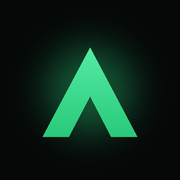
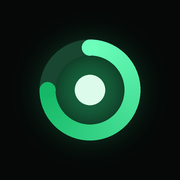
Kalo 2.1 : retour du nom Kalo, nouvelle icône, compléments du jour
Claude-Session: https://claude.ai/code/session_01X9tV76v65pVn9JuBxWGshT

Changed region(s): [[0.1944, 0.1944, 0.8056, 0.8056]]

diff --git a/app.js b/app.js
@@ -1,6 +1,6 @@
 'use strict';
 (() => {
-  const APP_VERSION = '2.0.0';
+  const APP_VERSION = '2.1.0';
 
   /* ---------- Utilitaires ---------- */
   const $ = (s, el = document) => el.querySelector(s);
@@ -40,6 +40,8 @@
     bolt: '<svg viewBox="0 0 24 24"><path d="M13 2L4 14h7l-1 8 9-12h-7l1-8z"/></svg>',
     plus: '<svg viewBox="0 0 24 24"><path d="M12 5v14M5 12h14"/></svg>',
     check: '<svg viewBox="0 0 24 24" class="ico-check"><circle cx="12" cy="12" r="10"/><path d="M7.5 12.5l3 3 6-6.5"/></svg>',
+    pill: '<svg viewBox="0 0 24 24"><g transform="rotate(-45 12 12)"><rect x="3" y="8.3" width="18" height="7.4" rx="3.7"/><path d="M12 8.3v7.4"/></g></svg>',
+    edit: '<svg viewBox="0 0 24 24"><path d="M4 20h4L19 9l-4-4L4 16v4zM13.5 6.5l4 4"/></svg>',
     gear: '<svg viewBox="0 0 24 24"><circle cx="12" cy="12" r="3.2"/><path d="M19.4 15a1.7 1.7 0 00.3 1.9l.1.1a2 2 0 11-2.8 2.8l-.1-.1a1.7 1.7 0 00-1.9-.3 1.7 1.7 0 00-1 1.5V21a2 2 0 11-4 0v-.1a1.7 1.7 0 00-1.1-1.5 1.7 1.7 0 00-1.9.3l-.1.1a2 2 0 11-2.8-2.8l.1-.1a1.7 1.7 0 00.3-1.9 1.7 1.7 0 00-1.5-1H3a2 2 0 110-4h.1a1.7 1.7 0 001.5-1.1 1.7 1.7 0 00-.3-1.9l-.1-.1a2 2 0 112.8-2.8l.1.1a1.7 1.7 0 001.9.3H9a1.7 1.7 0 001-1.5V3a2 2 0 114 0v.1a1.7 1.7 0 001 1.5 1.7 1.7 0 001.9-.3l.1-.1a2 2 0 112.8 2.8l-.1.1a1.7 1.7 0 00-.3 1.9V9a1.7 1.7 0 001.5 1H21a2 2 0 110 4h-.1a1.7 1.7 0 00-1.5 1z"/></svg>',
     flame: '<svg viewBox="0 0 24 24"><path fill="#2EE68A" d="M12 2c1 3.5-1.5 5-1.5 7.5 0 1.4 1 2.5 2.3 2.5 1.6 0 2.4-1.3 2.2-3 2.3 1.8 3.5 4.3 3.5 6.6C18.5 19.3 15.6 22 12 22s-6.5-2.7-6.5-6.4C5.5 10.5 11 8.5 12 2z"/></svg>',
     fork: '<svg viewBox="0 0 24 24" fill="none" stroke="#2EE68A" stroke-width="2" stroke-linecap="round"><path d="M6 3v7a2 2 0 002 2v9M10 3v7a2 2 0 01-2 2M8 3v6M17 21V3c-2 1.5-3 4-3 7v3h3"/></svg>',
@@ -52,7 +54,8 @@
     body: '<svg viewBox="0 0 48 48"><circle cx="24" cy="12" r="6"/><path d="M10 44c0-11 3-20 14-20s14 9 14 20M17 30c2 2 4.5 3 7 3s5-1 7-3M24 33v8M18 38h12"/></svg>',
   };
 
-  const brandHTML = () => `<div class="brand"><svg viewBox="0 0 40 40" aria-hidden="true"><defs><linearGradient id="lgA" x1="0" y1="0" x2="1" y2="1"><stop offset="0" stop-color="#6CFFBC"/><stop offset="1" stop-color="#14B866"/></linearGradient></defs><path d="M20 3.5 L37 35.5 H27.6 L20 21 L12.4 35.5 H3 Z" fill="url(#lgA)"/><path d="M20 26 L23.6 33 H16.4 Z" fill="#050807"/></svg><span>Automa<b>Fit</b></span></div>`;
+  const LOGO = '<svg viewBox="0 0 40 40" aria-hidden="true"><defs><linearGradient id="lgK" x1="0" y1="0" x2="1" y2="1"><stop offset="0" stop-color="#6CFFBC"/><stop offset="1" stop-color="#14B866"/></linearGradient></defs><circle cx="20" cy="20" r="14.5" fill="none" stroke="rgba(46,230,138,.22)" stroke-width="5.5"/><path d="M20 5.5 A14.5 14.5 0 1 1 5.5 20" fill="none" stroke="url(#lgK)" stroke-width="5.5" stroke-linecap="round"/><circle cx="20" cy="20" r="4.6" fill="#DCFBEA"/></svg>';
+  const brandHTML = () => `<div class="brand">${LOGO}<span>Ka<b>lo</b></span></div>`;
   const MEALS = [['breakfast', 'Petit-déjeuner'], ['lunch', 'Déjeuner'], ['dinner', 'Dîner'], ['snack', 'Collations']];
   const mealName = id => (MEALS.find(m => m[0] === id) || [, id])[1];
   const guessMeal = () => { const d = new Date(), h = d.getHours() + d.getMinutes() / 60; return h < 10.5 ? 'breakfast' : h < 15 ? 'lunch' : h < 18 ? 'snack' : 'dinner'; };
@@ -126,12 +129,12 @@
   };
 
   /* ---------- État ---------- */
-  const S = { profile: null, days: {}, weights: [], foods: [], recents: [], off: {}, photo: '' };
+  const S = { profile: null, days: {}, weights: [], foods: [], recents: [], off: {}, photo: '', supps: [] };
   const UI = { tab: 'journal', date: today(), period: 'week', metric: 'kcal', anchor: today(), proj: 'auto', mini: 30 };
 
   async function loadState() {
     const all = await Store.loadAll();
-    S.profile = all.profile || null; S.weights = all.weights || []; S.foods = all.foods || []; S.recents = all.recents || []; S.photo = all.photo || '';
+    S.profile = all.profile || null; S.weights = all.weights || []; S.foods = all.foods || []; S.recents = all.recents || []; S.photo = all.photo || ''; S.supps = all.supps || [];
     S.days = {}; S.off = {};
     for (const k in all) {
       if (k.startsWith('day:')) S.days[k.slice(4)] = all[k];
@@ -141,7 +144,7 @@
 
   function saveDay(k) {
     const d = S.days[k];
-    if (!d || (!d.entries.length && d.burn == null && d.active == null && !d.validated && !(d.mealsDone && Object.keys(d.mealsDone).length))) { delete S.days[k]; return Store.del('day:' + k); }
+    if (!d || (!d.entries.length && d.burn == null && d.active == null && !d.validated && !(d.mealsDone && Object.keys(d.mealsDone).length) && !(d.supps && Object.keys(d.supps).length))) { delete S.days[k]; return Store.del('day:' + k); }
     if (k === today() || !d.goal) { const g = goals(); d.goal = { kcal: g.kcal, protein: g.protein, carbs: g.carbs, tdee: g.tdee }; }
     return Store.put('day:' + k, d);
   }
@@ -442,6 +445,7 @@
         </div>
         <div class="today-sub num">${split ? `Mangé ${r0(t.eatenK)} · prévu ${r0(t.planK)} · ` : ''}consommé ${r0(t.kcal)} / ${r0(g.kcal)} kcal</div>
       </section>
+      ${suppsCard(k)}
       ${locked ? validatedCard(k, t, burn) : ''}
       <section class="card">
         <div class="row between"><div class="card-title">${ICON.cal}Bilan du jour</div>${locked ? '' : `<button class="watch-pill ${burn.measured ? 'on' : ''}" data-action="burn">${ICON.watch}Ma montre<i></i></button>`}</div>
@@ -464,6 +468,50 @@
         <div><div class="k num">${r0(g.kcal)} <small>kcal</small></div><div class="s">Objectif quotidien</div></div>
         <div class="chips2"><span>${p.sex === 'f' ? 'Femme' : 'Homme'}</span><span>${p.age} ans</span><span class="more">Voir plus ›</span></div>
       </section>`;
+  }
+
+  /* ---------- Compléments alimentaires du jour ---------- */
+  function suppsCard(k) {
+    const sl = S.supps, taken = S.days[k]?.supps || {};
+    const n = sl.filter(x => taken[x.id]).length, all = sl.length && n === sl.length;
+    return `<section class="card supps ${all ? 'all' : ''}">
+      <div class="row between"><div class="card-title">${ICON.pill}Compléments</div>
+        <div class="row" style="gap:4px">${sl.length ? `<span class="supp-count ${all ? 'good-text' : n ? '' : 'over-text'}">${all ? 'Tous pris ✓' : `${n} / ${sl.length} pris`}</span>` : ''}<button class="icon-btn" data-action="supps-manage" aria-label="Gérer mes compléments">${ICON.edit}</button></div></div>
+      ${sl.length ? `<div class="supp-row">${sl.map(x => `<button class="supp ${taken[x.id] ? 'on' : ''}" data-action="supp-toggle" data-id="${x.id}" aria-pressed="${!!taken[x.id]}"><span class="dot">${ICON.check}</span><span class="txt"><b>${esc(x.name)}</b>${x.dose ? `<small>${esc(x.dose)}</small>` : ''}</span></button>`).join('')}</div>`
+        : '<button class="btn ghost block small" style="margin-top:12px" data-action="supps-manage">+ Ajouter mes compléments (créatine, magnésium…)</button>'}
+    </section>`;
+  }
+  const SUPP_SUGGEST = [['Créatine', '5 g'], ['Magnésium', '300 mg'], ['Oméga 3', '2 gélules'], ['Vitamine D3 + K2', '1 gélule'], ['Zinc', '15 mg'], ['Multivitamines', '1 comprimé'], ['Whey', '30 g'], ['Vitamine C', '500 mg'], ['Fer', '1 comprimé'], ['Collagène', '10 g']];
+  function openSupps() {
+    const sh = makeSheet('Mes compléments');
+    const draw = () => {
+      const has = n => S.supps.some(x => norm(x.name) === norm(n));
+      sh.setBody(`
+        <section class="card list">${S.supps.length ? S.supps.map((x, i) => `<div class="item"><div class="grow"><div class="name">${esc(x.name)}</div>${x.dose ? `<div class="sub">${esc(x.dose)}</div>` : ''}</div>
+          <button class="icon-btn" data-a="up" data-i="${i}" aria-label="Monter" ${i ? '' : 'disabled style="opacity:.25"'}>${ICON.left.replace('M15 5l-7 7 7 7', 'M6 15l6-6 6 6')}</button>
+          <button class="icon-btn" data-a="del" data-i="${i}" aria-label="Supprimer" style="color:var(--danger)">${ICON.close}</button></div>`).join('') : '<div class="empty small">Aucun complément pour l\'instant.</div>'}</section>
+        <h3>Suggestions</h3>
+        <div class="chips" style="margin:0 0 16px">${SUPP_SUGGEST.filter(([n]) => !has(n)).map(([n, d]) => `<button class="chip" data-a="sug" data-n="${esc(n)}" data-d="${esc(d)}">+ ${esc(n)}</button>`).join('')}</div>
+        <h3>Ajouter un autre complément</h3>
+        <section class="card stack"><div class="grid2"><label class="field"><span>Nom</span><input type="text" data-f="n" placeholder="ex. Ashwagandha"></label><label class="field"><span>Dose (facultatif)</span><input type="text" data-f="d" placeholder="ex. 1 gélule"></label></div>
+          <button class="btn block" data-a="add">Ajouter</button></section>
+        <p class="note">La liste est la même chaque jour ; les cases se décochent automatiquement à minuit. Les compléments ne remplacent pas une alimentation variée : demande conseil à un médecin ou un pharmacien en cas de traitement.</p>`);
+    };
+    const save = () => { Store.put('supps', S.supps); render(); };
+    sh.body.addEventListener('click', e => {
+      const b = e.target.closest('[data-a]'); if (!b) return;
+      const a = b.dataset.a, i = +b.dataset.i;
+      if (a === 'del') S.supps.splice(i, 1);
+      if (a === 'up' && i > 0) [S.supps[i - 1], S.supps[i]] = [S.supps[i], S.supps[i - 1]];
+      if (a === 'sug') S.supps.push({ id: uid(), name: b.dataset.n, dose: b.dataset.d });
+      if (a === 'add') {
+        const n = $('[data-f="n"]', sh.body).value.trim(), d = $('[data-f="d"]', sh.body).value.trim();
+        if (!n) { toast('Indique un nom'); return; }
+        S.supps.push({ id: uid(), name: n, dose: d });
+      }
+      save(); draw();
+    });
+    draw(); openSheet(sh.el);
   }
 
   function drawMini() {
@@ -523,13 +571,13 @@
       sh.setBody(mode === 'active' ? `<section class="card stack">
         <label class="field"><span>Calories brûlées aujourd'hui (kcal)</span><input type="number" inputmode="numeric" data-f="v" value="${d.active ?? ''}" placeholder="ex. 559"></label>
         <div class="burn-calc num" data-f="calc"></div>
-        <p class="note" style="margin:0">Entre le chiffre <b>« calories actives »</b> (ou « énergie active ») de ta montre. AutomaFit y ajoute ta dépense au repos estimée (${r0(bmr)} kcal) pour obtenir ta dépense totale du jour.</p>
+        <p class="note" style="margin:0">Entre le chiffre <b>« calories actives »</b> (ou « énergie active ») de ta montre. Kalo y ajoute ta dépense au repos estimée (${r0(bmr)} kcal) pour obtenir ta dépense totale du jour.</p>
       </section>
       <button class="btn plain block" data-a="mode">Entrer plutôt le TOTAL de ma montre (recommandé)</button>`
         : `<section class="card stack">
         <label class="field"><span>TOTAL de la journée (kcal)</span><input type="number" inputmode="numeric" data-f="v" value="${d.burn ?? ''}" placeholder="ex. 2 416"></label>
         <div class="burn-calc num" data-f="calc"></div>
-        <p class="note" style="margin:0"><b>Apple Watch</b> : app <b>Forme</b> → Résumé → touche l'anneau rouge → ligne <b>« TOTAL : … KCAL »</b> sous le graphique « Bouger ».${k === today() ? ' AutomaFit ajoute automatiquement ce que tu brûleras au repos jusqu\'à minuit.' : ''}</p>
+        <p class="note" style="margin:0"><b>Apple Watch</b> : app <b>Forme</b> → Résumé → touche l'anneau rouge → ligne <b>« TOTAL : … KCAL »</b> sous le graphique « Bouger ».${k === today() ? ' Kalo ajoute automatiquement ce que tu brûleras au repos jusqu\'à minuit.' : ''}</p>
       </section>
       <button class="btn plain block" data-a="mode">Je n'ai que les calories « Bouger » (actives)</button>`);
       const inp = $('[data-f="v"]', sh.body), out = $('[data-f="calc"]', sh.body);
@@ -538,7 +586,7 @@
         if (v == null) { out.innerHTML = `Sans saisie : estimation ${r0(g.tdee)} kcal`; return; }
         if (mode === 'active') { out.innerHTML = `Dépense du jour : ${r0(bmr)} + ${r0(v)} = <b>${r0(bmr + v)} kcal</b>`; return; }
         const rl = restLeft();
-        if (v < 1200) { out.innerHTML = `${r0(v)} ressemble à tes calories « Bouger » : AutomaFit ajoute ta dépense au repos → <b>${r0(bmr + v)} kcal</b>`; return; }
+        if (v < 1200) { out.innerHTML = `${r0(v)} ressemble à tes calories « Bouger » : Kalo ajoute ta dépense au repos → <b>${r0(bmr + v)} kcal</b>`; return; }
         out.innerHTML = rl ? `${r0(v)} + ~${r0(rl)} au repos d'ici minuit = <b>${r0(v + rl)} kcal</b>` : `Dépense du jour : <b>${r0(v)} kcal</b>`;
       };
       inp.addEventListener('input', upd); upd();
@@ -635,7 +683,7 @@
     const p = S.profile, g = goals(), c = g, w = currentWeight();
     const install = isStandalone() ? '' : `<section class="card"><h3>Installer l'application</h3>${isIOS()
       ? '<p class="small">Dans <b>Safari</b> : touche <b>« ⋯ »</b> à côté de la barre d\'adresse, puis <b>Partager</b> (carré avec une flèche), fais défiler et choisis <b>« Sur l\'écran d\'accueil »</b>. Sur les anciens iOS, le bouton Partager est directement en bas de l\'écran.</p>'
-      : installPrompt ? '<button class="btn block" data-action="install">Installer AutomaFit</button>' : '<p class="small">Dans <b>Chrome</b> : menu <b>⋮</b> puis <b>« Ajouter à l\'écran d\'accueil »</b> ou <b>« Installer l\'application »</b>.</p>'}</section>`;
+      : installPrompt ? '<button class="btn block" data-action="install">Installer Kalo</button>' : '<p class="small">Dans <b>Chrome</b> : menu <b>⋮</b> puis <b>« Ajouter à l\'écran d\'accueil »</b> ou <b>« Installer l\'application »</b>.</p>'}</section>`;
     const hM = `${Math.floor(p.height / 100)}m${String(Math.round(p.height % 100)).padStart(2, '0')}`;
     const imc = w / (p.height / 100) ** 2;
     const prompt = aiPrompt();
@@ -681,7 +729,7 @@
         <div class="grid2"><button class="btn outline" data-action="export">Exporter</button><label class="btn outline" style="position:relative">Importer<input type="file" accept="application/json,.json" data-input="import" style="position:absolute;inset:0;opacity:0"></label></div>
         <button class="btn danger block" data-action="reset">Effacer toutes les données</button>
       </section>
-      <p class="note">AutomaFit ${APP_VERSION} · stockage ${Store.mode === 'idb' ? 'IndexedDB' : 'local'} · données produits <a href="https://world.openfoodfacts.org" target="_blank" rel="noopener">Open Food Facts</a>. Les valeurs sont des estimations, pas un avis médical.</p>`;
+      <p class="note">Kalo ${APP_VERSION} · stockage ${Store.mode === 'idb' ? 'IndexedDB' : 'local'} · données produits <a href="https://world.openfoodfacts.org" target="_blank" rel="noopener">Open Food Facts</a>. Les valeurs sont des estimations, pas un avis médical.</p>`;
   }
 
   /* ---------- Progrès ---------- */
@@ -1267,12 +1315,12 @@
 
   /* ---------- Export / import ---------- */
   async function exportData() {
-    const data = { app: 'kalo', version: 1, exportedAt: new Date().toISOString(), profile: S.profile, weights: S.weights, foods: S.foods, recents: S.recents, days: S.days, photo: S.photo || '' };
+    const data = { app: 'kalo', version: 1, exportedAt: new Date().toISOString(), profile: S.profile, weights: S.weights, foods: S.foods, recents: S.recents, days: S.days, photo: S.photo || '', supps: S.supps };
     const name = `kalo-sauvegarde-${today()}.json`;
     const blob = new Blob([JSON.stringify(data)], { type: 'application/json' });
     const file = new File([blob], name, { type: 'application/json' });
     if (navigator.canShare && navigator.canShare({ files: [file] })) {
-      try { await navigator.share({ files: [file], title: 'Sauvegarde AutomaFit' }); return; } catch (e) { if (e.name === 'AbortError') return; }
+      try { await navigator.share({ files: [file], title: 'Sauvegarde Kalo' }); return; } catch (e) { if (e.name === 'AbortError') return; }
     }
     const a = document.createElement('a'); a.href = URL.createObjectURL(blob); a.download = name; document.body.appendChild(a); a.click();
     setTimeout(() => { URL.revokeObjectURL(a.href); a.remove(); }, 1000);
@@ -1284,7 +1332,7 @@
       if (d.app !== 'kalo' || !d.profile) throw new Error('format');
       if (!confirm('Remplacer toutes les données actuelles par cette sauvegarde ?')) return;
       await Store.clear();
-      await Store.put('profile', d.profile); await Store.put('weights', d.weights || []); await Store.put('foods', d.foods || []); await Store.put('recents', d.recents || []); if (d.photo) await Store.put('photo', d.photo);
+      await Store.put('profile', d.profile); await Store.put('weights', d.weights || []); await Store.put('foods', d.foods || []); await Store.put('recents', d.recents || []); if (d.photo) await Store.put('photo', d.photo); if (d.supps) await Store.put('supps', d.supps);
       for (const k in d.days || {}) await Store.put('day:' + k, d.days[k]);
       await loadState(); render(); toast('Sauvegarde restaurée');
     } catch (e) { toast('Fichier de sauvegarde invalide'); }
@@ -1309,6 +1357,14 @@
     'photo-pick': () => $('#photoInput').click(),
     'photo-del': () => { if (!confirm('Retirer ta photo objectif ?')) return; S.photo = ''; Store.del('photo'); render(); },
     'copy-prompt': () => { navigator.clipboard?.writeText(aiPrompt()).then(() => toast('Texte copié ✓'), () => toast('Copie impossible : sélectionne le texte')); },
+    'supps-manage': () => openSupps(),
+    'supp-toggle': b => {
+      const d = getDay(UI.date); d.supps = d.supps || {};
+      const id = b.dataset.id;
+      if (d.supps[id]) delete d.supps[id]; else d.supps[id] = Date.now();
+      saveDay(UI.date); render();
+      if (d.supps[id]) { try { navigator.vibrate?.(15); } catch (e) { /* ignore */ } if (S.supps.every(x => d.supps[x.id])) toast('Tous tes compléments sont pris 💊'); }
+    },
     'mini-range': b => { UI.mini = +b.dataset.v; render(); },
     'meal-done': b => {
       const k = UI.date, m = b.dataset.meal; if (isLocked(k)) return;

diff --git a/styles.css b/styles.css
@@ -340,3 +340,20 @@ input::placeholder { color: var(--ink-3); }
 .bilan-row .v svg { width: 18px; height: 18px; }
 .bilan-row .l { font-size: 12.5px; }
 .ring-wrap .ring-center svg { width: 22px; height: 22px; }
+
+/* Compléments */
+.supps .icon-btn { width: 36px; height: 36px; }
+.supps .icon-btn svg { stroke: var(--ink-2); }
+.supp-count { font-size: 13px; font-weight: 700; color: var(--ink-2); white-space: nowrap; }
+.supp-row { display: flex; gap: 8px; overflow-x: auto; margin: 12px -16px -2px; padding: 2px 16px 6px; scroll-snap-type: x proximity; -webkit-overflow-scrolling: touch; scrollbar-width: none; }
+.supp-row::-webkit-scrollbar { display: none; }
+.supp { flex: 0 0 auto; scroll-snap-align: start; display: flex; align-items: center; gap: 9px; padding: 9px 14px 9px 9px; border-radius: 999px; border: 1px solid rgba(255,255,255,.12); background: rgba(255,255,255,.04); text-align: left; }
+.supp .dot { width: 26px; height: 26px; border-radius: 50%; border: 2px solid rgba(255,255,255,.22); display: inline-flex; align-items: center; justify-content: center; color: transparent; flex: 0 0 auto; }
+.supp .dot .ico-check { width: 18px; height: 18px; }
+.supp .dot .ico-check circle { display: none; }
+.supp .txt b { display: block; font-size: 14px; font-weight: 650; white-space: nowrap; }
+.supp .txt small { display: block; font-size: 11.5px; color: var(--ink-3); white-space: nowrap; }
+.supp.on { border-color: rgba(46,230,138,.55); background: var(--accent-soft); }
+.supp.on .dot { background: var(--accent); border-color: var(--accent); color: #04140B; box-shadow: 0 0 10px var(--accent-glow); }
+.supp.on .txt b { color: var(--accent); }
+.supps.all { border-color: rgba(46,230,138,.35); }

diff --git a/index.html b/index.html
@@ -3,14 +3,14 @@
 <head>
   <meta charset="utf-8">
   <meta name="viewport" content="width=device-width, initial-scale=1, viewport-fit=cover">
-  <title>AutomaFit — calories & protéines</title>
+  <title>Kalo — calories & protéines</title>
   <meta name="description" content="Suivi des calories, protéines et glucides, scan des produits, objectifs et progression.">
   <meta name="theme-color" content="#050807">
   <meta name="color-scheme" content="dark">
   <meta name="mobile-web-app-capable" content="yes">
   <meta name="apple-mobile-web-app-capable" content="yes">
   <meta name="apple-mobile-web-app-status-bar-style" content="black-translucent">
-  <meta name="apple-mobile-web-app-title" content="AutomaFit">
+  <meta name="apple-mobile-web-app-title" content="Kalo">
   <link rel="manifest" href="manifest.webmanifest">
   <link rel="icon" href="icons/icon-192.png" type="image/png">
   <link rel="apple-touch-icon" href="icons/apple-touch-icon.png">

diff --git a/sw.js b/sw.js
@@ -1,6 +1,6 @@
 // Service worker : réseau d'abord (toujours la dernière version en ligne), cache en secours hors connexion.
 // Incrémente VERSION à chaque mise à jour.
-const VERSION = 'kalo-v2.0.0';
+const VERSION = 'kalo-v2.1.0';
 const ASSETS = ['./', './index.html', './styles.css', './app.js', './foods.js', './manifest.webmanifest',
   './icons/icon-192.png', './icons/icon-512.png', './icons/apple-touch-icon.png', './vendor/zxing-browser.min.js'];
 

diff --git a/README.md b/README.md
@@ -1,4 +1,4 @@
-# AutomaFit : suivi calories, protéines & glucides (Android + iPhone)
+# Kalo : suivi calories, protéines & glucides (Android + iPhone)
 
 Web-app installable (PWA) : scan de code-barres, recherche Open Food Facts, aliments génériques, objectifs kcal + protéines calculés automatiquement, journal par repas, progrès semaine / mois / année, suivi du poids. Gratuit, sans compte ni serveur : les données restent sur le téléphone.
 
@@ -52,6 +52,8 @@ Les données (journal, pesées, aliments perso) sont stockées **uniquement sur 
 - Si le poids réel ne baisse pas, l'app l'indique au lieu d'afficher une date fictive.
 
 ## Accueil (v2)
+
+- **Compléments** (entre le résumé du jour et le bilan) : crayon → ajoute tes compléments (suggestions créatine, magnésium, oméga 3, D3 + K2… ou nom/dose libres). Touche une pastille pour la cocher ; elles se décochent chaque nouveau jour. « Tous pris ✓ » quand tout est coché.
 
 - **Photo objectif** : Profil → *Ma photo objectif* → Ajouter. L'image (idéalement générée par IA à ton poids objectif) s'affiche en haut de l'accueil. Le Profil fournit le texte à coller dans ChatGPT / Gemini avec ta photo. L'image est compressée et stockée sur le téléphone (incluse dans l'export).
 - **Anneau calories** : calories restantes, arc plein = mangé, arc clair = prévu.
